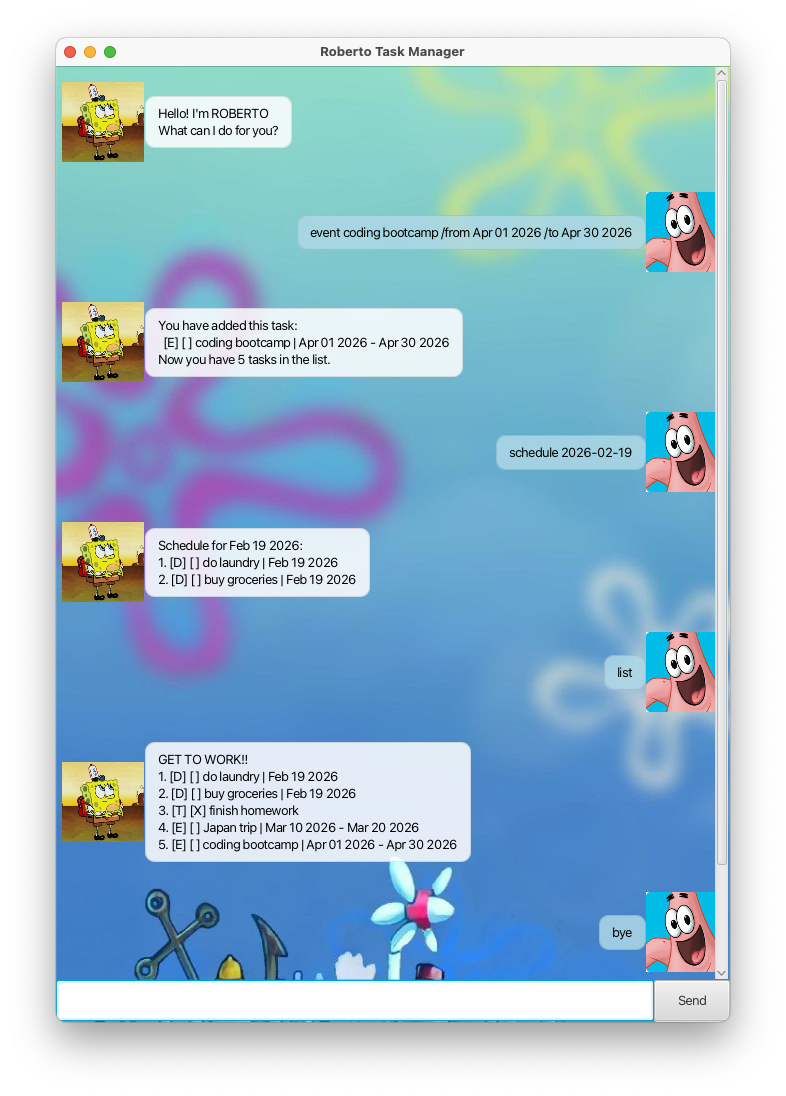
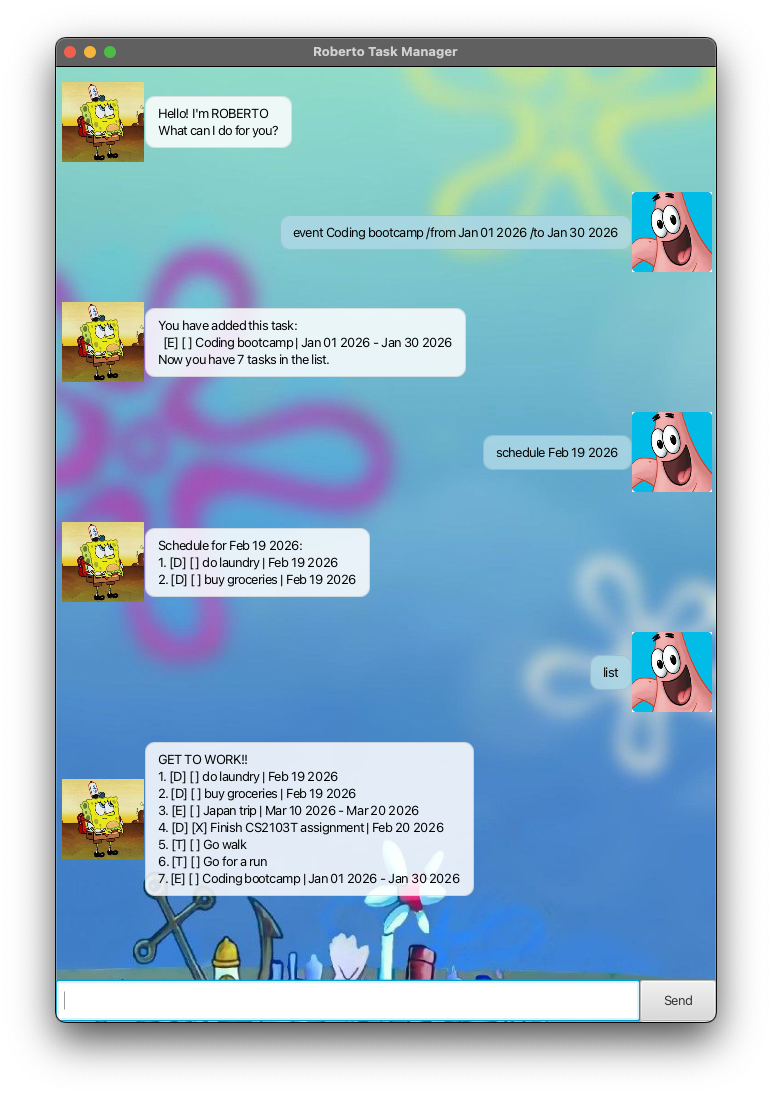
Standardise date format of 'schedule' command

Changed region(s): [[0.0622, 0.031, 0.9637, 0.9617], [0.7461, 0.4964, 0.8083, 0.5584], [0.2798, 0.3723, 0.3109, 0.4033]]

diff --git a/src/main/java/parser/CommandType.java b/src/main/java/parser/CommandType.java
@@ -220,9 +220,9 @@ public enum CommandType {
                 LocalDate date = parseDate(userChoice);
                 ui.showSchedule(date, tasks.getTasksOnDate(date));
             } catch (DateTimeParseException e) {
-                ui.giveError("Invalid date format! Use YYYY-MM-DD (e.g., 2026-02-15)");
+                ui.giveError("Invalid date format! Use MMM-dd-yyyy (e.g., Jan 01 2026)");
             } catch (StringIndexOutOfBoundsException e) {
-                ui.giveError("Please specify a date: schedule YYYY-MM-DD");
+                ui.giveError("Please specify a date: schedule MMM-dd-yyyy");
             }
             return CommandResult.CONTINUE;
         }
@@ -233,9 +233,9 @@ public enum CommandType {
                 LocalDate date = parseDate(userChoice);
                 return GuiResponse.of(buildScheduleResponse(date, tasks.getTasksOnDate(date)));
             } catch (DateTimeParseException e) {
-                return GuiResponse.of("Invalid date format! Use YYYY-MM-DD (e.g., 2026-02-15)");
+                return GuiResponse.of("Invalid date format! Use MMM-dd-yyyy (e.g., Jan 01 2026)");
             } catch (StringIndexOutOfBoundsException e) {
-                return GuiResponse.of("Please specify a date: schedule YYYY-MM-DD");
+                return GuiResponse.of("Please specify a date: schedule MMM-dd-yyyy");
             }
         }
     };
@@ -367,6 +367,7 @@ public enum CommandType {
     }
 
     private static LocalDate parseDate(String userChoice) {
-        return LocalDate.parse(userChoice.substring(SCHEDULE_MESSAGE_PREFIX).trim());
+        DateTimeFormatter dateFormat = DateTimeFormatter.ofPattern("MMM dd yyyy");
+        return LocalDate.parse(userChoice.substring(SCHEDULE_MESSAGE_PREFIX).trim(), dateFormat);
     }
 }

diff --git a/docs/README.md b/docs/README.md
@@ -1,13 +1,13 @@
 # Roberto User Guide
 
-**Roberto** is a task manager which provides you with the capabilities of tracking your tasks.
+**Roberto** is a task manager which provides you with the capabilities of efficiently tracking your tasks.
 
-It allows you to keep track of 3 types of tasks: 
+It allows you to track 3 types of tasks: 
 1. To-do tasks (no specified start and end dates)
 2. Deadline tasks (specified end date)
 3. Event tasks (specified start and end dates)
 
-With several functionalities like finding specific tasks, and viewing tasks relevant to a specific date,
+With functionalities like finding specific tasks, and viewing tasks on a specific date,
 Roberto aims to give you a seamless, easy-to-use to-do list.
 
 ![Screenshot of Roberto Task Manager in action](Ui.png)
